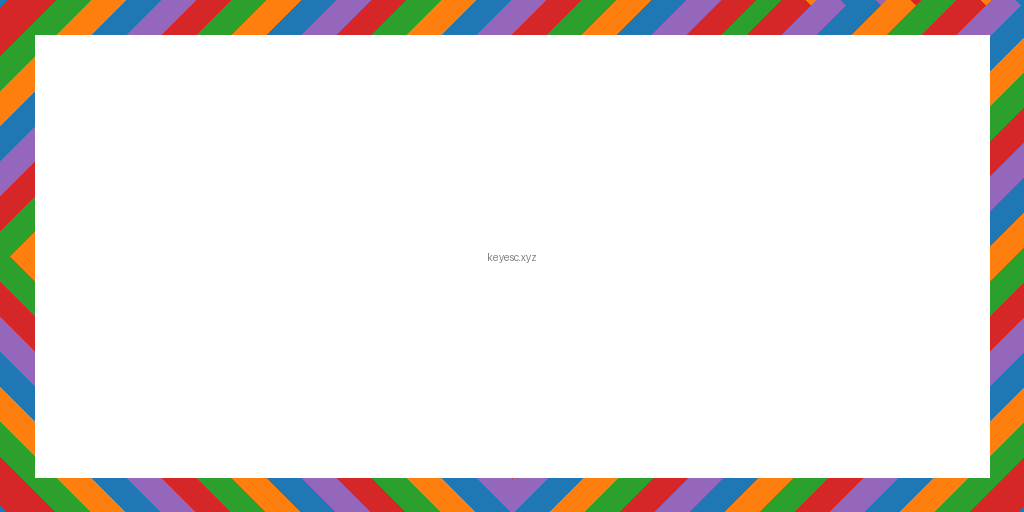
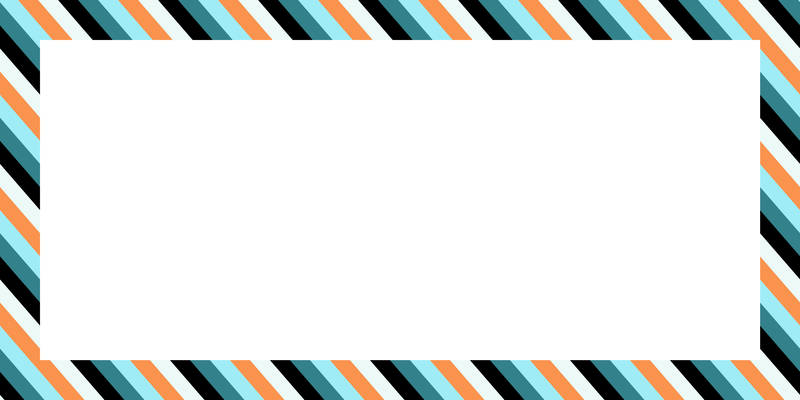
add gui, refactor strip's angle & color

Changed region(s): [[0.0, 0.0, 1.0, 1.0], [0.4688, 0.48, 0.5312, 0.51]]

diff --git a/main.py b/main.py
@@ -1,50 +1,87 @@
-from PIL import Image, ImageDraw, ImageFont
+import sys
+import math
+from PySide6.QtWidgets import QApplication, QMainWindow, QLabel, QVBoxLayout, QWidget, QLineEdit, QPushButton
+from PySide6.QtGui import QPixmap
+from PIL import Image, ImageDraw
+from PIL.ImageQt import ImageQt
 
-def create_diagonal_stripes_frame(image, frame_thickness, colors):
-    draw = ImageDraw.Draw(image)
-    width, height = image.size
-    num_colors = len(colors)
+class MainWindow(QMainWindow):
+    def __init__(self):
+        super().__init__()
 
-    for i in range(0, width + height, frame_thickness):
-        color = colors[(i // frame_thickness) % num_colors]
-        draw.line([(i, 0), (0, i)], fill=color, width=frame_thickness)
-        draw.line([(width - i, height), (width, height - i)], fill=color, width=frame_thickness)
-        draw.line([(0, i), (i, height)], fill=color, width=frame_thickness)
-        draw.line([(width, i), (width - i, 0)], fill=color, width=frame_thickness)
+        self.setWindowTitle("Diagonal Border Image Creator")
+        self.setGeometry(100, 100, 800, 450)
 
-def create_colorful_frame_image(output_path, text="keyesc.xyz"):
-    # Define the image size and colors
-    image_width, image_height = 1024, 512
-    original_frame_thickness = 50
-    frame_thickness = int(original_frame_thickness * 0.7)  # Reduce thickness by 30%
-    colors = ['#1f77b4', '#ff7f0e', '#2ca02c', '#d62728', '#9467bd']
-    
-    # Create a new image with a white background
-    image = Image.new('RGB', (image_width, image_height), 'white')
-    
-    # Draw the colorful frame with diagonal stripes
-    create_diagonal_stripes_frame(image, frame_thickness, colors)
-    
-    # Draw the inner white rectangle
-    draw = ImageDraw.Draw(image)
-    draw.rectangle([frame_thickness, frame_thickness, image_width - frame_thickness, image_height - frame_thickness], fill='white')
-    
-    # Load a font
-    font = ImageFont.load_default()
-    
-    # Calculate text size and position using textbbox
-    text_bbox = draw.textbbox((0, 0), text, font=font)
-    text_width = text_bbox[2] - text_bbox[0]
-    text_height = text_bbox[3] - text_bbox[1]
-    text_x = (image_width - text_width) // 2
-    text_y = (image_height - text_height) // 2
-    
-    # Draw the text in the center of the image
-    draw.text((text_x, text_y), text, fill='grey', font=font)
-    
-    # Save the image to a file
-    image.save(output_path)
+        self.layout = QVBoxLayout()
 
-# Create the image with a colorful frame and centered text
-desired_output_path = 'output_image.png'  # Change this to your desired path
-create_colorful_frame_image(desired_output_path)
+        self.angle_label = QLabel("Angle:")
+        self.layout.addWidget(self.angle_label)
+        self.angle_entry = QLineEdit("30")
+        self.layout.addWidget(self.angle_entry)
+
+        self.thickness_label = QLabel("Frame Thickness:")
+        self.layout.addWidget(self.thickness_label)
+        self.thickness_entry = QLineEdit("20")
+        self.layout.addWidget(self.thickness_entry)
+
+        self.border_label = QLabel("Border Size:")
+        self.layout.addWidget(self.border_label)
+        self.border_entry = QLineEdit("40")
+        self.layout.addWidget(self.border_entry)
+
+        self.update_button = QPushButton("Update Image")
+        self.update_button.clicked.connect(self.update_image)
+        self.layout.addWidget(self.update_button)
+
+        self.image_label = QLabel()
+        self.layout.addWidget(self.image_label)
+
+        container = QWidget()
+        container.setLayout(self.layout)
+        self.setCentralWidget(container)
+
+    def create_image_with_diagonal_border(self, width, height, frame_thickness, border_size, colors, angle):
+        scale_factor = 8
+        high_res_width = width * scale_factor
+        high_res_height = height * scale_factor
+        high_res_frame_thickness = frame_thickness * scale_factor
+        high_res_border_size = border_size * scale_factor
+
+        angle_radians = math.radians(angle)
+        image = Image.new("RGB", (high_res_width, high_res_height), (255, 255, 255))
+        draw = ImageDraw.Draw(image)
+
+        tan_angle = math.tan(angle_radians)
+        extended_range = max(high_res_width, high_res_height) * 4
+
+        for idx, i in enumerate(range(-extended_range, extended_range, high_res_frame_thickness)):
+            color = colors[idx % len(colors)]
+            start_x = i
+            start_y = -extended_range
+            end_x = i + extended_range / tan_angle
+            end_y = extended_range
+            draw.line([(start_x, start_y), (end_x, end_y)], fill=color, width=high_res_frame_thickness)
+
+        draw.rectangle([high_res_border_size, high_res_border_size, high_res_width - high_res_border_size, high_res_height - high_res_border_size], fill=(255, 255, 255))
+        image = image.resize((width, height), Image.LANCZOS)
+        return image
+
+    def update_image(self):
+        angle = int(self.angle_entry.text())
+        frame_thickness = int(self.thickness_entry.text())
+        border_size = int(self.border_entry.text())
+        colors = [(0, 0, 0), (51, 129, 138), (160, 236, 246), (249, 147, 78), (236, 249, 247)]
+        image = self.create_image_with_diagonal_border(800, 400, frame_thickness, border_size, colors, angle)
+        qimage = ImageQt(image)
+        pixmap = QPixmap.fromImage(qimage)
+        self.image_label.setPixmap(pixmap)
+        
+        # Save the image to a file
+        output_path = "output_image.png"
+        image.save(output_path)
+        print(f"Image saved to {output_path}")
+
+app = QApplication(sys.argv)
+window = MainWindow()
+window.show()
+sys.exit(app.exec_())
